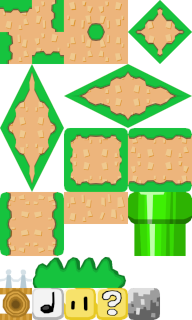
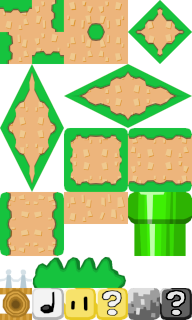
Mario - breaking bricks, collecting ? blocks

Changed region(s): [[0.8125, 0.875, 1.0, 1.0]]

diff --git a/ruby/main.rb b/ruby/main.rb
@@ -1,6 +1,7 @@
 require 'ruby2d'
 
 set title: "Ruby2D Mario", width: 512, height: 480
+set background: [0.360, 0.580, 0.988, 1.0]
 
 # Constants
 TILE_SIZE = 32
@@ -39,18 +40,30 @@ tileset.define_tile('grass_top', 0, 0)
 tileset.define_tile('dirt', 2, 6)
 tileset.define_tile('brick', 2, 9)
 tileset.define_tile('question_mark_block', 3, 9)
+tileset.define_tile('question_mark_block_collected', 5, 9)
 tileset.define_tile('pipe_top_left', 4, 6)
 tileset.define_tile('pipe_top_right', 5, 6)
 tileset.define_tile('pipe_left', 4, 7)
 tileset.define_tile('pipe_right', 5, 7)
 tileset.define_tile('undefined', 4, 9)
 
+# Block collisions and types
+class Block
+  attr_reader :collider
+  attr_accessor :type
+
+  def initialize(collider, type)
+    @collider = collider
+    @type = type
+  end
+end
+
 # Player
 player = Rectangle.new(
-    x: TILE_SIZE * 2,
-    y: TILE_SIZE * 11,
-    width: TILE_SIZE,
-    height: TILE_SIZE * 2,
+    x: TILE_SIZE * 0.8 * 2,
+    y: TILE_SIZE * 0.8 * 11,
+    width: TILE_SIZE * 0.8,
+    height: TILE_SIZE * 0.8 * 2,
     color: 'blue'
 )
 
@@ -73,34 +86,37 @@ def create_level(blocks, tiles)
                 next
             end
             
+            tile_type = case char
+            when "#"
+                "dirt"
+            when "O"
+                "grass_top"
+            when "X"
+                "brick"
+            when "?"
+                "question_mark_block"
+            when "╒"
+                "pipe_top_left"
+            when "╕"
+                "pipe_top_right"
+            when "├"
+                "pipe_left"
+            when "┤"
+                "pipe_right"
+            else
+                "undefined"
+            end
+            
+            # Graphics tile
+            tiles[tile_type] << { x: x * TILE_SIZE, y: y * TILE_SIZE }
+            
             # Collision box
-            blocks << Square.new(
+            blocks << Block.new(Square.new(
                 x: x * TILE_SIZE,
                 y: y * TILE_SIZE,
                 size: TILE_SIZE,
                 color: [1, 0, 0, 0]
-            )
-            
-            # Graphics tile
-            if char == "#"
-                tiles["dirt"] << { x: x * TILE_SIZE, y: y * TILE_SIZE }
-            elsif char == "O"
-                tiles["grass_top"] << { x: x * TILE_SIZE, y: y * TILE_SIZE }
-            elsif char == "X"
-                tiles["brick"] << { x: x * TILE_SIZE, y: y * TILE_SIZE }
-            elsif char == "?"
-                tiles["question_mark_block"] << { x: x * TILE_SIZE, y: y * TILE_SIZE }
-            elsif char == "╒"
-                tiles["pipe_top_left"] << { x: x * TILE_SIZE, y: y * TILE_SIZE }
-            elsif char == "╕"
-                tiles["pipe_top_right"] << { x: x * TILE_SIZE, y: y * TILE_SIZE }
-            elsif char == "├"
-                tiles["pipe_left"] << { x: x * TILE_SIZE, y: y * TILE_SIZE }
-            elsif char == "┤"
-                tiles["pipe_right"] << { x: x * TILE_SIZE, y: y * TILE_SIZE }
-            else
-                tiles["undefined"] << { x: x * TILE_SIZE, y: y * TILE_SIZE }
-            end
+            ), tile_type)
         end
     end
 end
@@ -166,34 +182,65 @@ update do
     # Check collisions
     on_ground = false
     
+    block_to_remove = nil
+    
     # Vertical collisions
     blocks.each do |block|
-        if aabb_collision?(player, block)
+        collider = block.collider
+        type = block.type
+        
+        if aabb_collision?(player, collider)
             # Collision from falling
-            if player_vy > 0 && player.y + player.height > block.y
-                player.y = block.y - player.height
+            if player_vy > 0 && player.y + player.height > collider.y
+                player.y = collider.y - player.height
                 player_vy = 0
                 on_ground = true
             end
 
             # Collision from jumping
-            if player_vy < 0 && player.y < block.y + block.height
-                player.y = block.y + block.height
+            if player_vy < 0 && player.y < collider.y + collider.height
+                if type == "brick" or type == "question_mark_block"
+                    block_to_remove = block
+                end
+                player.y = collider.y + collider.height
                 player_vy = 0
             end
         end
     end
     
-    player.x += dx
+    if block_to_remove
+        case block_to_remove&.type
+        when "brick"
+            points += 50
+            blocks.delete(block_to_remove) 
+            tiles[block_to_remove&.type].delete_if do |tile|
+                tile[:x] == block_to_remove.collider.x && tile[:y] == block_to_remove.collider.y
+            end
+        when "question_mark_block"
+            points += 200
+            block_to_remove.type = "question_mark_block_collected"
+            tiles[block_to_remove&.type].delete_if do |tile|
+                tile[:x] == block_to_remove.collider.x && tile[:y] == block_to_remove.collider.y
+            end
+            tiles["question_mark_block_collected"] << { x: block_to_remove.collider.x, y: block_to_remove.collider.y }
+        end
         
+        # Update hud
+        hud.text = "Points: #{points}  Lives: #{lives}"
+    end
+    
+    player.x += dx
+    
     # Horizontal collisions
     blocks.each do |block|
-        if aabb_collision?(player, block)
+        collider = block.collider
+        
+        if aabb_collision?(player, collider)
             if dx > 0
-                # Moving right — push player to the left edge of block
+                # Moving right — push player to the left edge of collider
                 player.x -= MOVE_SPEED
             elsif dx < 0
-                # Moving left — push player to the right edge of block
+                # Moving left — push player to the right edge of collider
                 player.x += MOVE_SPEED
             end
         end
@@ -217,7 +264,8 @@ update do
 
     # Apply camera transform to collision blocks
     blocks.each do |block|
-        block.x -= camera_x
+        collider = block.collider
+        collider.x -= camera_x
     end
 
     player.x = 0 if player.x < 0
@@ -230,6 +278,10 @@ update do
         else
             # Lose life
             lives -= 1
+            if lives == 0
+                lives = 3
+                points = 0
+            end
             hud.text = "Points: #{points}  Lives: #{lives}"
             
             # Reset to start of level
